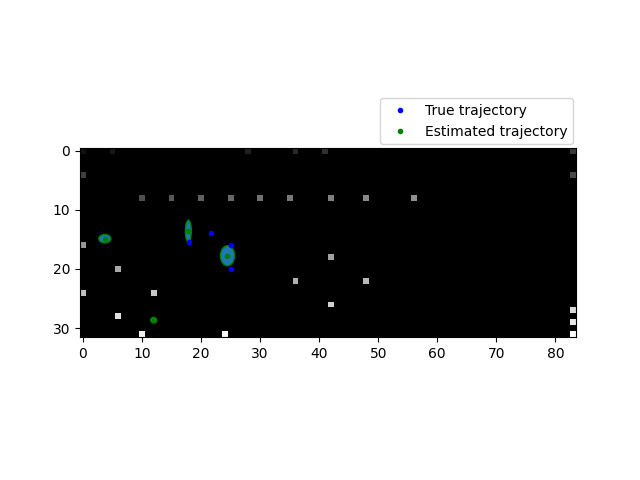
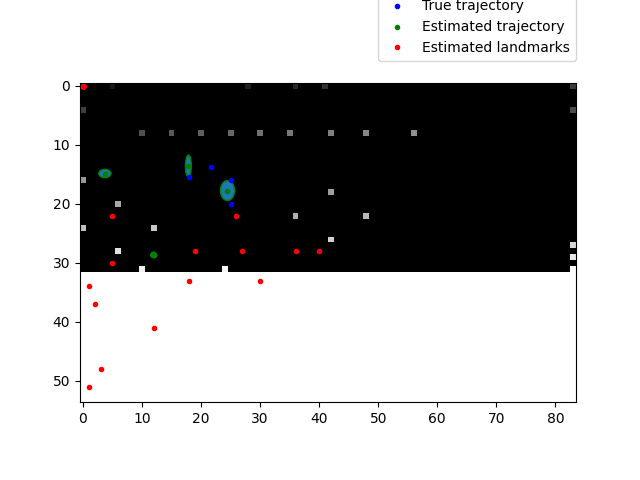
whaa

diff --git a/Assignment_5/EKF_slam_test.py b/Assignment_5/EKF_slam_test.py
@@ -156,8 +156,11 @@ def EKF_SLAM_test():
 
     x_estimated, y_estimated = zip(*plot_estimated)
     x_true, y_true = zip(*plot_true)
+    x_landmark = μ_bar_Nt1[3::3]
+    y_landmark = μ_bar_Nt1[4::3]
     ax.plot(x_true, y_true, 'b.', label='True trajectory')
     ax.plot(x_estimated, y_estimated, 'g.', label='Estimated trajectory')
+    ax.plot(x_landmark, y_landmark, 'r.', label='Estimated landmarks')
     ax.legend(bbox_to_anchor=(0.80, 1.30), loc='upper center')
     plt.savefig('images/EKF_SLAM.png')
 
@@ -166,7 +169,7 @@ if __name__ == '__main__':
     """
     See image EKF_SLAM_known_correspondences.png for the result of the EKF_SLAM_known_correspondences_test()
     """
-    EKF_SLAM_known_correspondences_test()
+    #EKF_SLAM_known_correspondences_test()
 
     """
     See image EKF_SLAM.png for the result of the EKF_SLAM_test()
